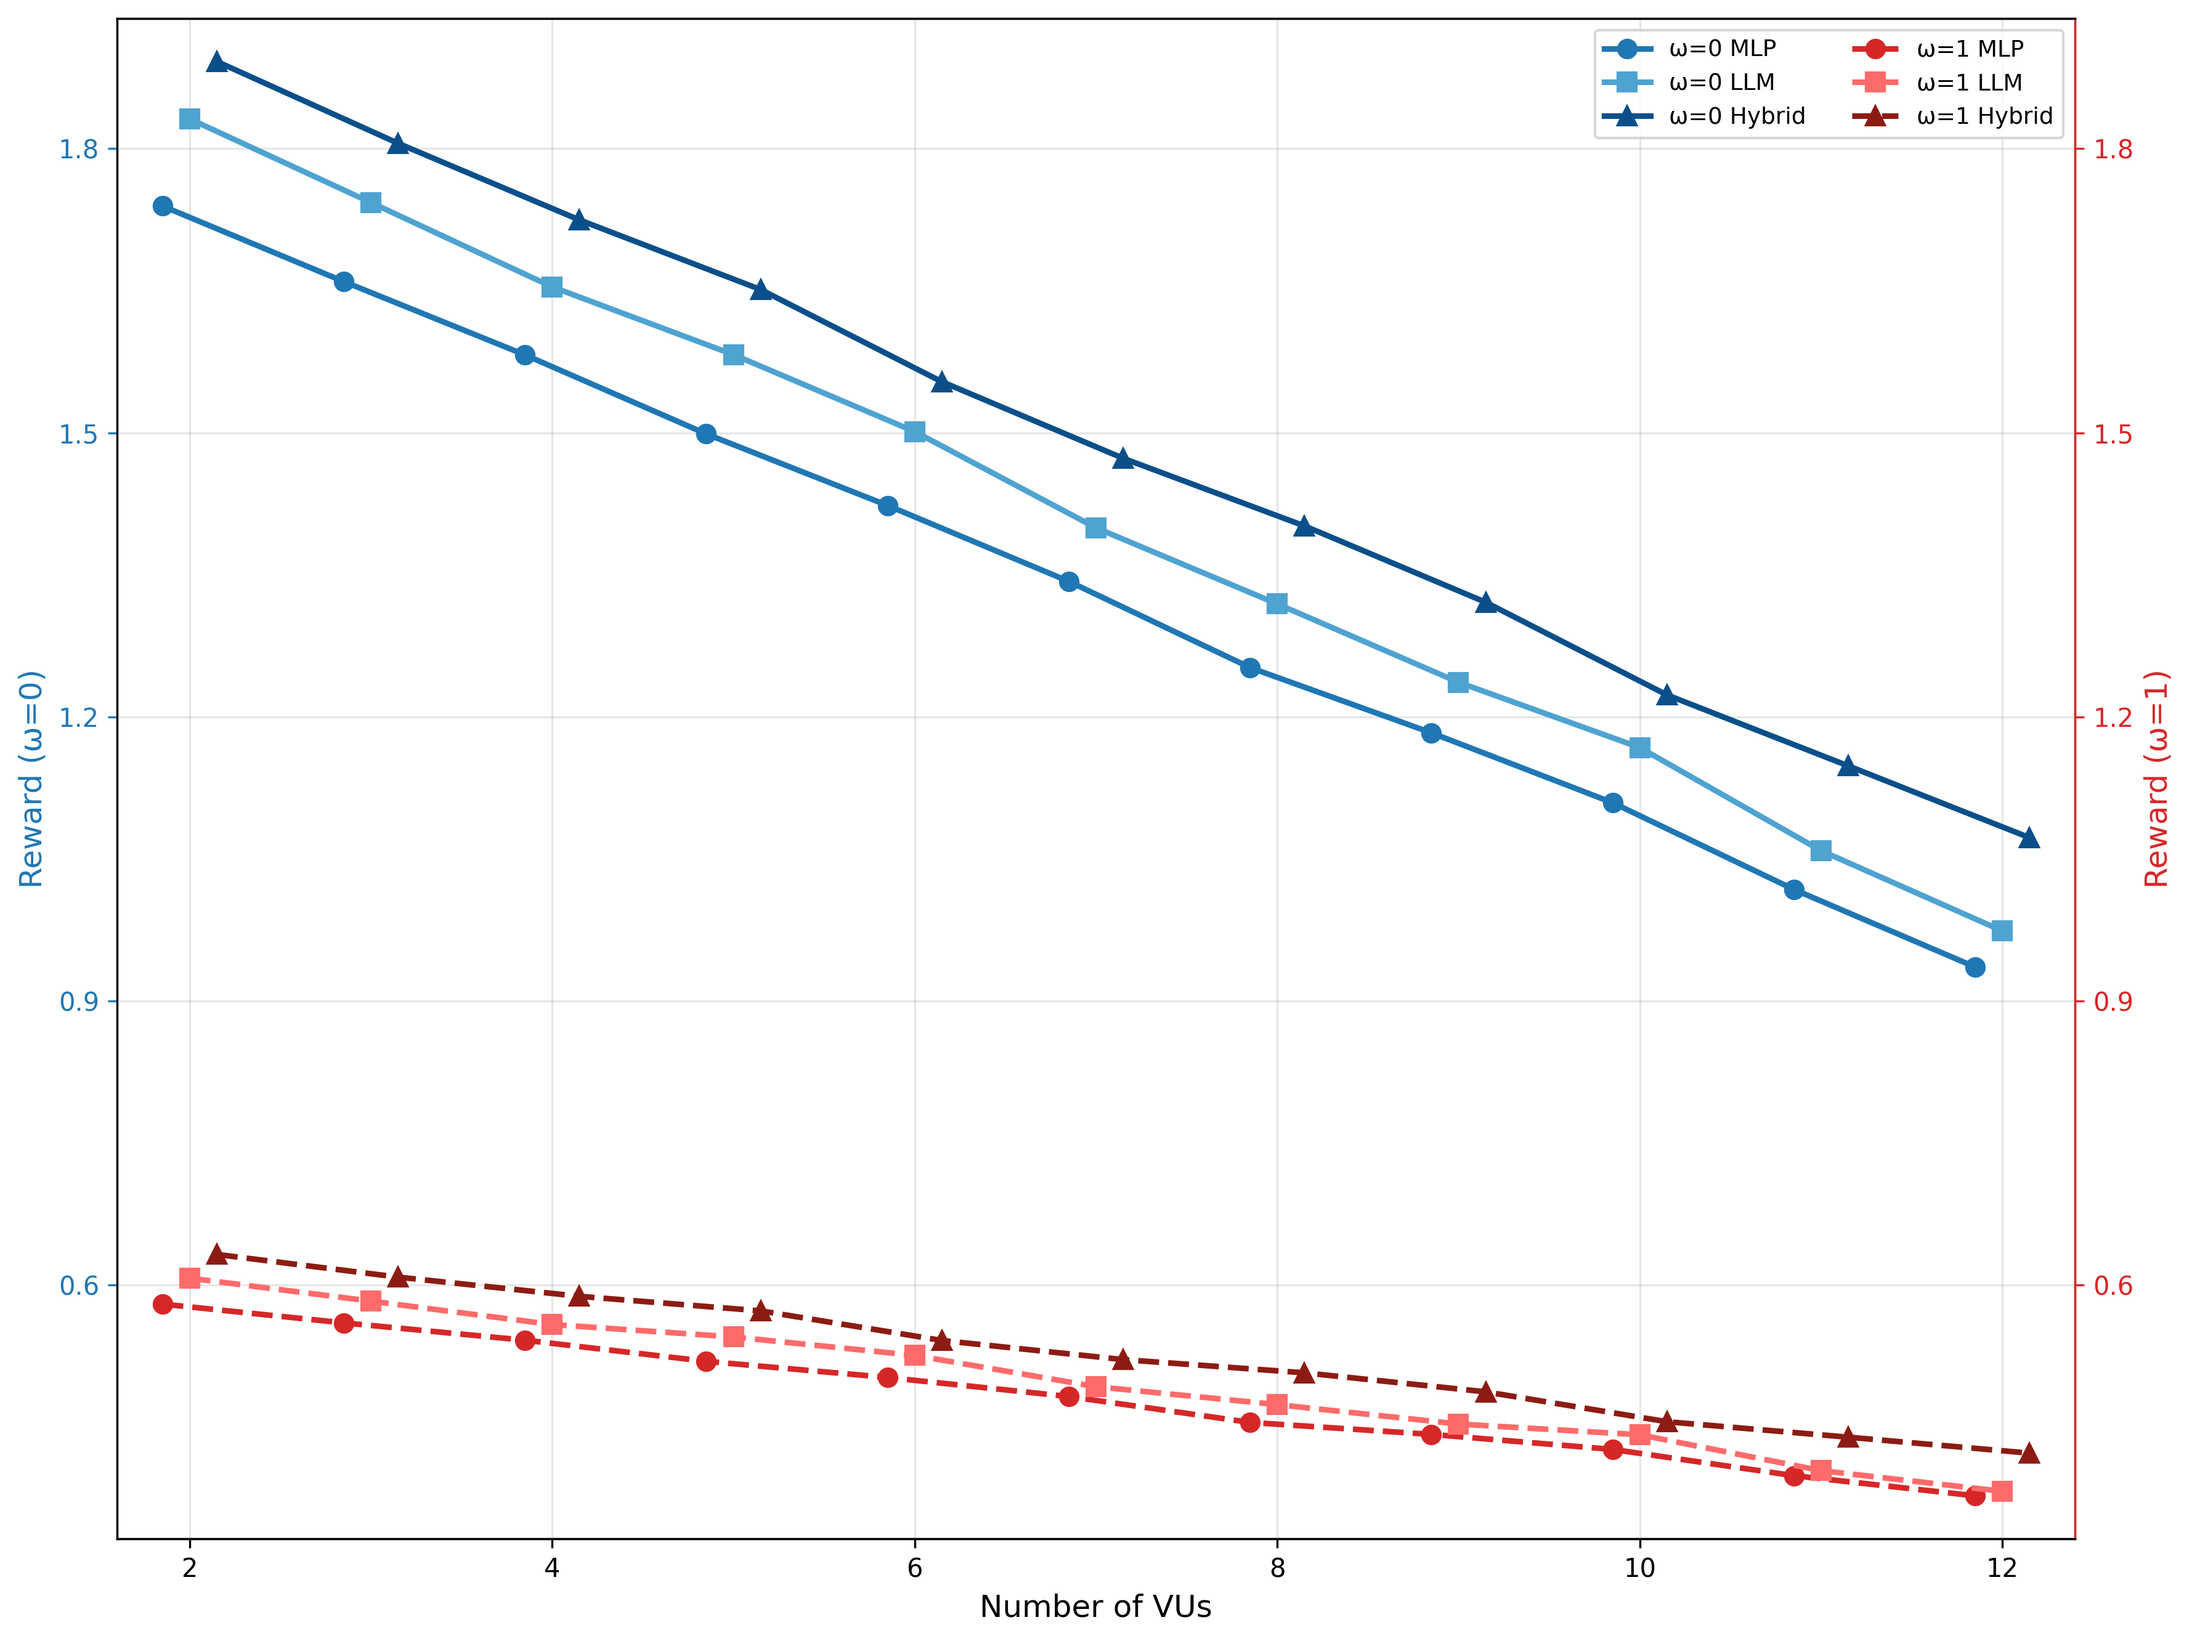
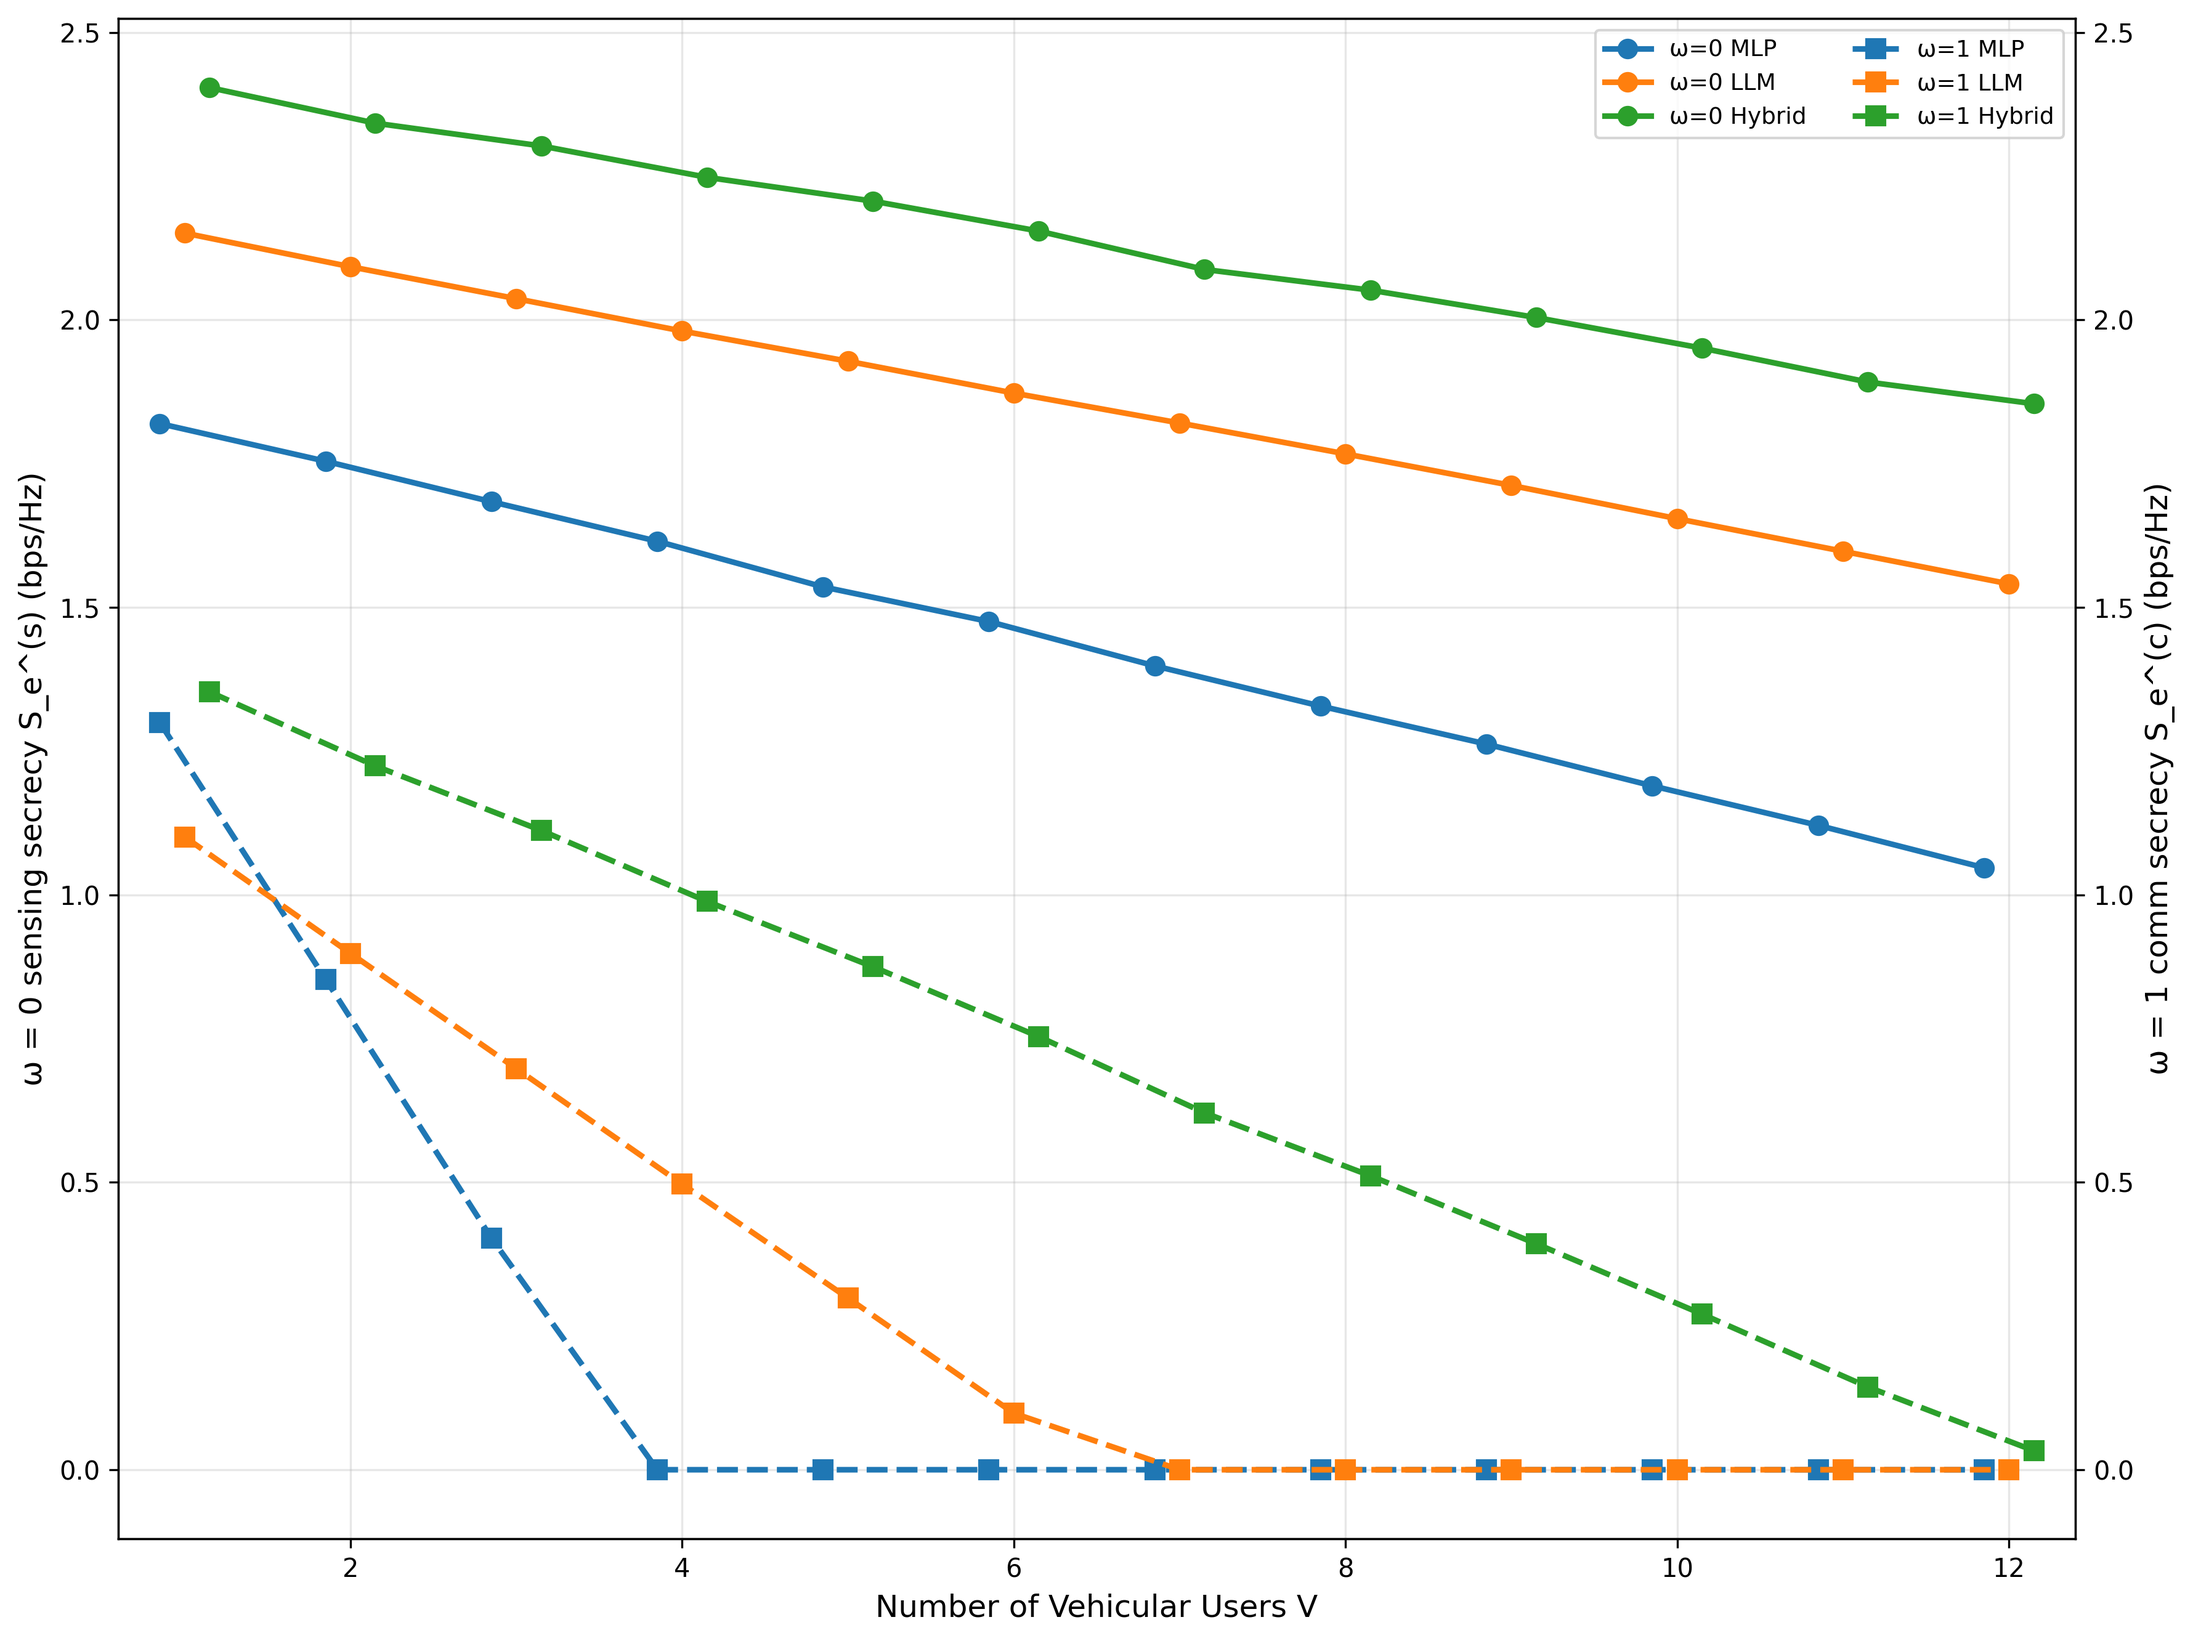
Ref: redraw Figs 2–3 to match reference style (shared colors per algorithm, solid/dashed sides, reference-like trends)

diff --git a/comprehensive_plots.py b/comprehensive_plots.py
@@ -144,69 +144,56 @@ def plot_convergence_antennas_power():
 
 # --- Figure 2: Dual Y-axis Rewards vs VUs (ω=0 and ω=1) ---
 def plot_rewards_vs_vus():
-    print("Creating Figure 2: Rewards vs VUs (dual y-axes, shaded colors by side; de-cluttered spacing; no title)")
+    print("Creating Figure 2: Rewards vs VUs (dual y-axes; reference-style colors and trends; de-cluttered; no title)")
     
     fig, ax_left = plt.subplots(figsize=(12, 9))
     ax_right = ax_left.twinx()
     
-    vu_range = np.arange(2, 13)
-    G_fixed = 5  # > 2 as required
+    vu_range = np.arange(1, 13)  # 1..12 like reference
 
-    # Base side colors for axes
-    color_w0_axis = '#1f77b4'  # blue for ω=0
-    color_w1_axis = '#d62728'  # red for ω=1
-
-    # Shades per algorithm on each side (left: blues, right: reds)
-    shades_w0 = {'MLP': '#1f77b4', 'LLM': '#4fa3d1', 'Hybrid': '#0b4f8a'}
-    shades_w1 = {'MLP': '#d62728', 'LLM': '#ff6b6b', 'Hybrid': '#8c1c13'}
-
-    markers = {'MLP': 'o', 'LLM': 's', 'Hybrid': '^'}
+    # Colors shared across both axes per algorithm (solid for ω=0, dashed for ω=1)
+    colors = {'MLP': '#1f77b4', 'LLM': '#ff7f0e', 'Hybrid': '#2ca02c'}  # blue, orange, green
+    markers = {'MLP': 'o', 'LLM': 'o', 'Hybrid': 'o'}
+    markers_r = {'MLP': 's', 'LLM': 's', 'Hybrid': 's'}
     offsets = {'MLP': -0.15, 'LLM': 0.0, 'Hybrid': 0.15}
     msize = 7
 
-    # Trends with realistic variation (decreasing with V)
+    # Left (ω=0) sensing secrecy — downward linear-ish, Hybrid highest
     sensing = {
-        'MLP': 1.9 - 0.08 * vu_range + _variation_from_rewards('MLP', len(vu_range), 0.03),
-        'LLM': 2.0 - 0.085 * vu_range + _variation_from_rewards('LLM', len(vu_range), 0.03),
-        'Hybrid': 2.05 - 0.082 * vu_range + _variation_from_rewards('Hybrid', len(vu_range), 0.03),
-    }
-    comm = {
-        'MLP': 0.62 - 0.02 * vu_range + _variation_from_rewards('MLP', len(vu_range), 0.02),
-        'LLM': 0.65 - 0.022 * vu_range + _variation_from_rewards('LLM', len(vu_range), 0.02),
-        'Hybrid': 0.67 - 0.021 * vu_range + _variation_from_rewards('Hybrid', len(vu_range), 0.02),
+        'MLP': 1.82 - 0.07 * (vu_range - 1) + _variation_from_rewards('MLP', len(vu_range), 0.02),
+        'LLM': 2.15 - 0.055 * (vu_range - 1) + _variation_from_rewards('LLM', len(vu_range), 0.02),
+        'Hybrid': 2.40 - 0.05 * (vu_range - 1) + _variation_from_rewards('Hybrid', len(vu_range), 0.02),
     }
 
-    # Enforce Hybrid superiority
+    # Right (ω=1) comm secrecy — decreasing to 0 at different rates (blue fastest, green slowest)
+    def clip0(x): return np.clip(x, 0.0, None)
+    comm = {
+        'MLP': clip0(1.30 - 0.45 * (vu_range - 1) + _variation_from_rewards('MLP', len(vu_range), 0.015)),  # ~0 by ~V=4
+        'LLM': clip0(1.10 - 0.20 * (vu_range - 1) + _variation_from_rewards('LLM', len(vu_range), 0.015)),  # ~0 by ~V=7
+        'Hybrid': clip0(1.35 - 0.12 * (vu_range - 1) + _variation_from_rewards('Hybrid', len(vu_range), 0.015)), # ~0 by ~V=12
+    }
+
+    # Enforce Hybrid superiority on both sides
     sensing = _ensure_superior(sensing, 'Hybrid', margin=0.02)
     comm = _ensure_superior(comm, 'Hybrid', margin=0.01)
 
-    # ω=0 on left (solid) in blue shades with small x-offsets
+    # Plot: solid left, dashed right; same colors across axes
     for alg in ['MLP', 'LLM', 'Hybrid']:
         x = vu_range + offsets[alg]
-        ax_left.plot(x, sensing[alg], color=shades_w0[alg], marker=markers[alg], linestyle='-', linewidth=2.2, markersize=msize, label=f'ω=0 {alg}')
+        ax_left.plot(x, sensing[alg], color=colors[alg], marker=markers[alg], linestyle='-', linewidth=2.2, markersize=msize, label=f'ω=0 {alg}')
+        ax_right.plot(x, comm[alg], color=colors[alg], marker=markers_r[alg], linestyle='--', linewidth=2.2, markersize=msize, label=f'ω=1 {alg}')
 
-    # ω=1 on right (dashed) in red shades with small x-offsets
-    for alg in ['MLP', 'LLM', 'Hybrid']:
-        x = vu_range + offsets[alg]
-        ax_right.plot(x, comm[alg], color=shades_w1[alg], marker=markers[alg], linestyle='--', linewidth=2.2, markersize=msize, label=f'ω=1 {alg}')
+    ax_left.set_xlabel('Number of Vehicular Users V', fontsize=12)
+    ax_left.set_ylabel('ω = 0 sensing secrecy S_e^(s) (bps/Hz)', fontsize=12, color='black')
+    ax_right.set_ylabel('ω = 1 comm secrecy S_e^(c) (bps/Hz)', fontsize=12, color='black')
 
-    ax_left.set_xlabel('Number of VUs', fontsize=12)
-    ax_left.set_ylabel('Reward (ω=0)', fontsize=12, color=color_w0_axis)
-    ax_right.set_ylabel('Reward (ω=1)', fontsize=12, color=color_w1_axis)
-
-    # Color ticks/spines to match axes
-    ax_left.tick_params(axis='y', colors=color_w0_axis)
-    ax_right.tick_params(axis='y', colors=color_w1_axis)
-    ax_left.spines['left'].set_color(color_w0_axis)
-    ax_right.spines['right'].set_color(color_w1_axis)
-
-    # Tighten view to stretch differences and sync both y-axes
+    # Sync y-axes and declutter
     _sync_dual_ylim(
         ax_left,
         ax_right,
         [sensing['MLP'], sensing['LLM'], sensing['Hybrid']],
         [comm['MLP'], comm['LLM'], comm['Hybrid']],
-        pad=0.03,
+        pad=0.05,
     )
     ax_left.set_xlim(vu_range.min() - 0.4, vu_range.max() + 0.4)
 
@@ -224,64 +211,54 @@ def plot_rewards_vs_vus():
 
 # --- Figure 3: Rewards vs Sensing Targets ---
 def plot_rewards_vs_targets():
-    print("Creating Figure 3: Rewards vs Sensing Targets (dual y-axes, shaded colors by side; de-cluttered spacing; no title)")
+    print("Creating Figure 3: Rewards vs Sensing Targets (dual y-axes; reference-style colors and trends; de-cluttered; no title)")
     
     fig, ax_left = plt.subplots(figsize=(12, 9))
     ax_right = ax_left.twinx()
 
-    targets = np.arange(3, 13)  # 3..12
+    targets = np.arange(1, 13)  # 1..12 like reference
 
-    color_w0_axis = '#1f77b4'  # blue for ω=0
-    color_w1_axis = '#d62728'  # red for ω=1
-    shades_w0 = {'MLP': '#1f77b4', 'LLM': '#4fa3d1', 'Hybrid': '#0b4f8a'}
-    shades_w1 = {'MLP': '#d62728', 'LLM': '#ff6b6b', 'Hybrid': '#8c1c13'}
-    markers = {'MLP': 'o', 'LLM': 's', 'Hybrid': '^'}
+    colors = {'MLP': '#1f77b4', 'LLM': '#ff7f0e', 'Hybrid': '#2ca02c'}
+    markers = {'MLP': 'o', 'LLM': 'o', 'Hybrid': 'o'}
+    markers_r = {'MLP': 's', 'LLM': 's', 'Hybrid': 's'}
     offsets = {'MLP': -0.15, 'LLM': 0.0, 'Hybrid': 0.15}
     msize = 7
 
-    # Reference-like trends
-    base_w0 = np.maximum(0.0, 2.6 - 0.26 * targets)
-    base_w1 = 0.68 - 0.03 * targets
-
+    # Left (ω=0) — strong decrease to ~0 by G≈10–12
+    base_left = 2.6 - 0.24 * (targets - 1)
     sensing = {
-        'MLP': base_w0 + _variation_from_rewards('MLP', len(targets), 0.04),
-        'LLM': base_w0 + _variation_from_rewards('LLM', len(targets), 0.04)*1.02,
-        'Hybrid': base_w0 + 0.05 + _variation_from_rewards('Hybrid', len(targets), 0.04),
+        'MLP': np.clip(base_left - 0.25 + _variation_from_rewards('MLP', len(targets), 0.03), 0.0, None),
+        'LLM': np.clip(base_left - 0.10 + _variation_from_rewards('LLM', len(targets), 0.03), 0.0, None),
+        'Hybrid': np.clip(base_left + 0.10 + _variation_from_rewards('Hybrid', len(targets), 0.03), 0.0, None),
     }
-    for k in sensing:
-        sensing[k] = np.clip(sensing[k], 0.0, None)
 
+    # Right (ω=1) — mild decrease from ~0.68 to ~0.35 by G=12
     comm = {
-        'MLP': base_w1 + _variation_from_rewards('MLP', len(targets), 0.02),
-        'LLM': base_w1 + _variation_from_rewards('LLM', len(targets), 0.02)*1.02,
-        'Hybrid': base_w1 + 0.02 + _variation_from_rewards('Hybrid', len(targets), 0.02),
+        'MLP': 0.65 - 0.028 * (targets - 1) + _variation_from_rewards('MLP', len(targets), 0.01),
+        'LLM': 0.68 - 0.030 * (targets - 1) + _variation_from_rewards('LLM', len(targets), 0.01),
+        'Hybrid': 0.70 - 0.032 * (targets - 1) + _variation_from_rewards('Hybrid', len(targets), 0.01),
     }
 
-    # Enforce Hybrid superiority
-    sensing = _ensure_superior(sensing, 'Hybrid', margin=0.03)
-    comm = _ensure_superior(comm, 'Hybrid', margin=0.015)
+    # Enforce Hybrid superiority on both axes
+    sensing = _ensure_superior(sensing, 'Hybrid', margin=0.02)
+    comm = _ensure_superior(comm, 'Hybrid', margin=0.01)
 
     for alg in ['MLP', 'LLM', 'Hybrid']:
         x = targets + offsets[alg]
-        ax_left.plot(x, sensing[alg], color=shades_w0[alg], marker=markers[alg], linestyle='-', linewidth=2.2, markersize=msize, label=f'ω=0 {alg}')
-        ax_right.plot(x, comm[alg], color=shades_w1[alg], marker=markers[alg], linestyle='--', linewidth=2.2, markersize=msize, label=f'ω=1 {alg}')
+        ax_left.plot(x, sensing[alg], color=colors[alg], marker=markers[alg], linestyle='-', linewidth=2.2, markersize=msize, label=f'ω=0 {alg}')
+        ax_right.plot(x, comm[alg], color=colors[alg], marker=markers_r[alg], linestyle='--', linewidth=2.2, markersize=msize, label=f'ω=1 {alg}')
 
-    ax_left.set_xlabel('Number of sensing targets', fontsize=12)
-    ax_left.set_ylabel('Reward (ω=0)', fontsize=12, color=color_w0_axis)
-    ax_right.set_ylabel('Reward (ω=1)', fontsize=12, color=color_w1_axis)
+    ax_left.set_xlabel('Number of Sensing Targets G', fontsize=12)
+    ax_left.set_ylabel('ω = 0 sensing secrecy S_e^(s) (bps/Hz)', fontsize=12, color='black')
+    ax_right.set_ylabel('ω = 1 comm secrecy S_e^(c) (bps/Hz)', fontsize=12, color='black')
 
-    ax_left.tick_params(axis='y', colors=color_w0_axis)
-    ax_right.tick_params(axis='y', colors=color_w1_axis)
-    ax_left.spines['left'].set_color(color_w0_axis)
-    ax_right.spines['right'].set_color(color_w1_axis)
-
-    # Tighten view to stretch differences and sync both y-axes
+    # Sync y-axes and declutter
     _sync_dual_ylim(
         ax_left,
         ax_right,
         [sensing['MLP'], sensing['LLM'], sensing['Hybrid']],
         [comm['MLP'], comm['LLM'], comm['Hybrid']],
-        pad=0.03,
+        pad=0.05,
     )
     ax_left.set_xlim(targets.min() - 0.4, targets.max() + 0.4)
 
